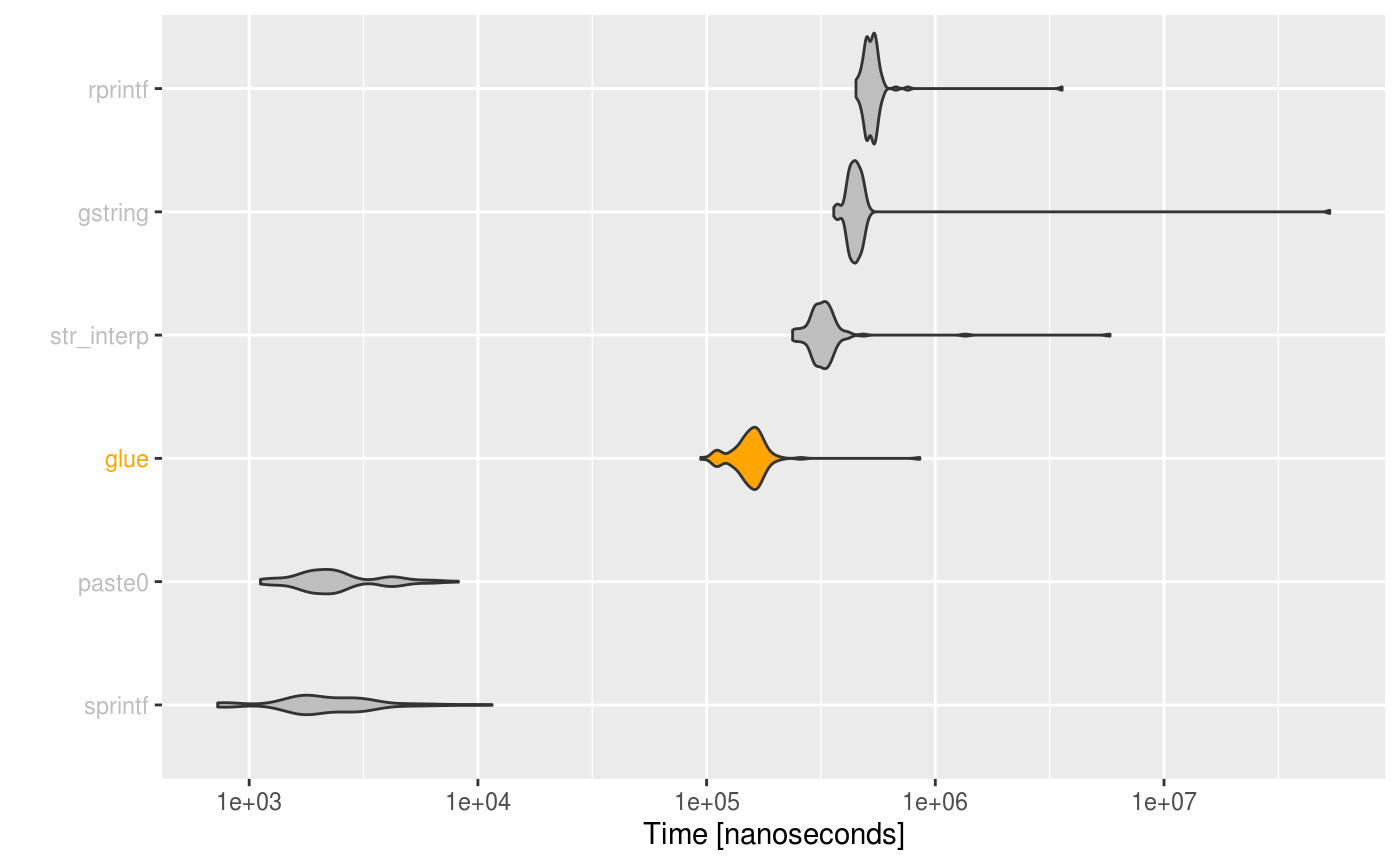
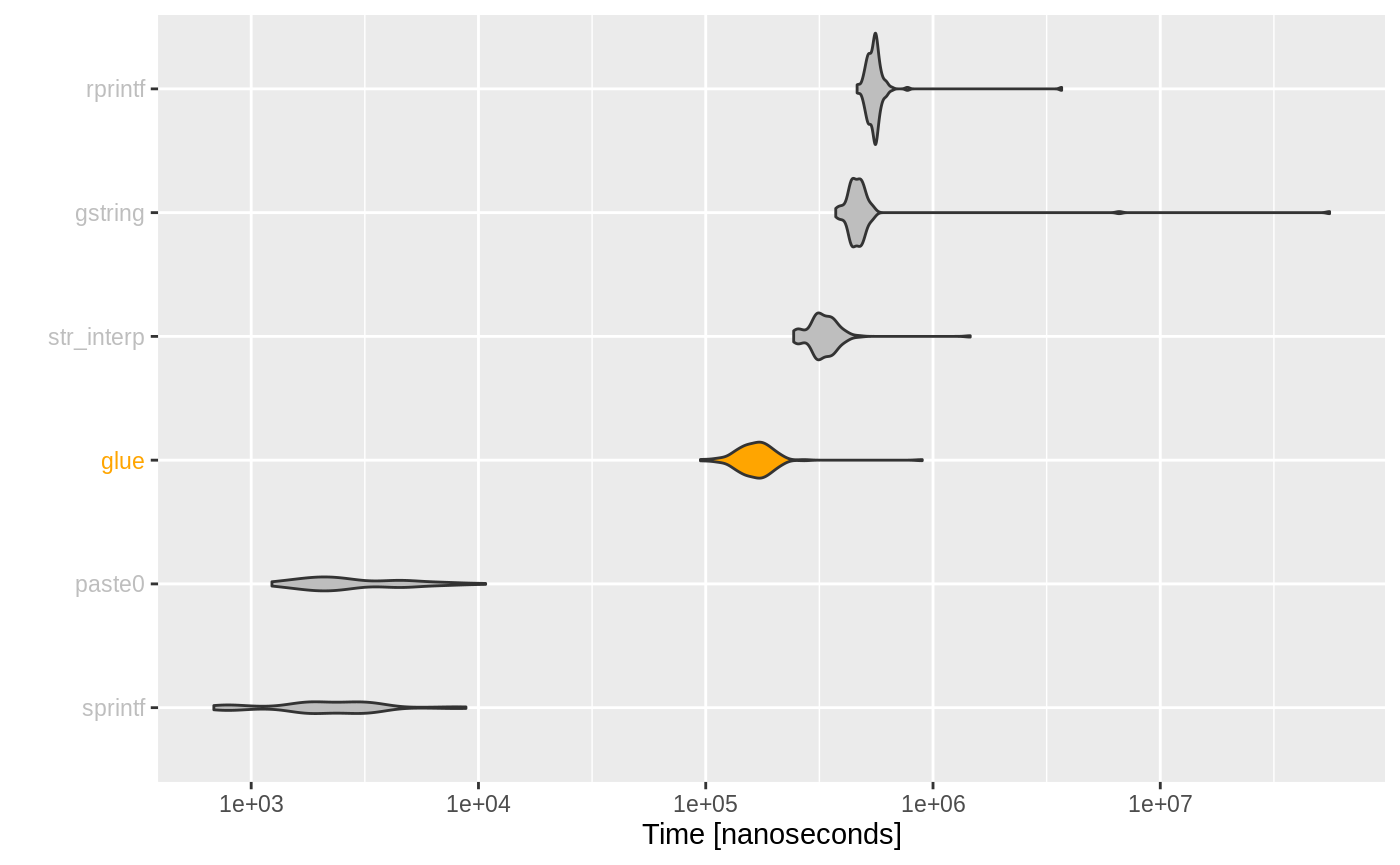
Built site for glue: 1.3.1.9000@3ae350a

diff --git a/dev/articles/speed.html b/dev/articles/speed.html
@@ -146,12 +146,12 @@
 <a class="sourceLine" id="cb1-13" data-line-number="13"><span class="kw"><a href="https://www.rdocumentation.org/packages/base/topics/print">print</a></span>(<span class="dt">unit =</span> <span class="st">"eps"</span>, <span class="dt">order =</span> <span class="st">"median"</span>, <span class="dt">signif =</span> <span class="dv">4</span>, simple)</a>
 <a class="sourceLine" id="cb1-14" data-line-number="14"><span class="co">#&gt; Unit: evaluations per second</span></a>
 <a class="sourceLine" id="cb1-15" data-line-number="15"><span class="co">#&gt;        expr       min     lq   mean median     uq     max neval</span></a>
-<a class="sourceLine" id="cb1-16" data-line-number="16"><span class="co">#&gt;     rprintf    278.90   1827   1901   1894   2002    2222   100</span></a>
-<a class="sourceLine" id="cb1-17" data-line-number="17"><span class="co">#&gt;     gstring     18.84   2140   2242   2240   2358    2779   100</span></a>
-<a class="sourceLine" id="cb1-18" data-line-number="18"><span class="co">#&gt;  str_interp    172.20   2894   3117   3101   3368    4207   100</span></a>
-<a class="sourceLine" id="cb1-19" data-line-number="19"><span class="co">#&gt;        glue   1168.00   5934   6614   6412   7038   10610   100</span></a>
-<a class="sourceLine" id="cb1-20" data-line-number="20"><span class="co">#&gt;      paste0 121600.00 352000 455400 440500 546500  892900   100</span></a>
-<a class="sourceLine" id="cb1-21" data-line-number="21"><span class="co">#&gt;     sprintf  86690.00 344500 530600 504900 615200 1374000   100</span></a>
+<a class="sourceLine" id="cb1-16" data-line-number="16"><span class="co">#&gt;     rprintf    271.60   1766   1811   1810   1915    2158   100</span></a>
+<a class="sourceLine" id="cb1-17" data-line-number="17"><span class="co">#&gt;     gstring     17.99   2052   2137   2168   2293    2679   100</span></a>
+<a class="sourceLine" id="cb1-18" data-line-number="18"><span class="co">#&gt;  str_interp    685.80   2768   3073   3071   3301    4103   100</span></a>
+<a class="sourceLine" id="cb1-19" data-line-number="19"><span class="co">#&gt;        glue   1115.00   5420   6161   5988   6794   10550   100</span></a>
+<a class="sourceLine" id="cb1-20" data-line-number="20"><span class="co">#&gt;      paste0  92990.00 234500 409600 411100 529400  810400   100</span></a>
+<a class="sourceLine" id="cb1-21" data-line-number="21"><span class="co">#&gt;     sprintf 113500.00 328600 568800 470100 627400 1460000   100</span></a>
 <a class="sourceLine" id="cb1-22" data-line-number="22"></a>
 <a class="sourceLine" id="cb1-23" data-line-number="23"><span class="kw">plot_comparison</span>(simple)</a></code></pre></div>
 <p><img src="speed_files/figure-html/unnamed-chunk-1-1.png" width="700"></p>
@@ -179,11 +179,11 @@
 <a class="sourceLine" id="cb2-12" data-line-number="12"><span class="kw"><a href="https://www.rdocumentation.org/packages/base/topics/print">print</a></span>(<span class="dt">unit =</span> <span class="st">"ms"</span>, <span class="dt">order =</span> <span class="st">"median"</span>, <span class="dt">signif =</span> <span class="dv">4</span>, vectorized)</a>
 <a class="sourceLine" id="cb2-13" data-line-number="13"><span class="co">#&gt; Unit: milliseconds</span></a>
 <a class="sourceLine" id="cb2-14" data-line-number="14"><span class="co">#&gt;     expr   min    lq  mean median    uq   max neval</span></a>
-<a class="sourceLine" id="cb2-15" data-line-number="15"><span class="co">#&gt;  sprintf 13.82 14.00 14.34  14.17 14.36 19.71   100</span></a>
-<a class="sourceLine" id="cb2-16" data-line-number="16"><span class="co">#&gt;   paste0 15.70 16.25 16.58  16.54 16.83 17.98   100</span></a>
-<a class="sourceLine" id="cb2-17" data-line-number="17"><span class="co">#&gt;     glue 19.80 20.55 21.12  20.94 21.35 27.95   100</span></a>
-<a class="sourceLine" id="cb2-18" data-line-number="18"><span class="co">#&gt;  gstring 33.89 34.79 35.44  35.33 35.66 41.22   100</span></a>
-<a class="sourceLine" id="cb2-19" data-line-number="19"><span class="co">#&gt;  rprintf 54.73 55.22 56.11  55.68 56.30 62.63   100</span></a>
+<a class="sourceLine" id="cb2-15" data-line-number="15"><span class="co">#&gt;  sprintf 14.53 14.68 15.16  14.98 15.19 20.86   100</span></a>
+<a class="sourceLine" id="cb2-16" data-line-number="16"><span class="co">#&gt;   paste0 16.39 17.17 17.61  17.49 17.88 21.07   100</span></a>
+<a class="sourceLine" id="cb2-17" data-line-number="17"><span class="co">#&gt;     glue 20.91 21.71 22.54  22.32 22.96 28.09   100</span></a>
+<a class="sourceLine" id="cb2-18" data-line-number="18"><span class="co">#&gt;  gstring 34.72 35.62 36.42  36.16 36.69 42.93   100</span></a>
+<a class="sourceLine" id="cb2-19" data-line-number="19"><span class="co">#&gt;  rprintf 55.52 56.22 57.23  56.98 57.55 63.52   100</span></a>
 <a class="sourceLine" id="cb2-20" data-line-number="20"></a>
 <a class="sourceLine" id="cb2-21" data-line-number="21"><span class="kw">plot_comparison</span>(vectorized, <span class="dt">log =</span> <span class="ot">FALSE</span>)</a></code></pre></div>
 <p><img src="speed_files/figure-html/unnamed-chunk-2-1.png" width="700"></p>

diff --git a/dev/reference/glue.html b/dev/reference/glue.html
@@ -237,7 +237,7 @@ template with <code><a href='trim.html'>trim()</a></code> or not.</p></td>
 <span class='no'>intro</span> <span class='kw'>&lt;-</span> <span class='kw'>function</span>(<span class='no'>name</span>, <span class='no'>profession</span>, <span class='no'>country</span>){
   <span class='fu'>glue</span>(<span class='st'>"My name is {name}, a {profession}, from {country}"</span>)
 }
-<span class='fu'>intro</span>(<span class='st'>"Shelmith"</span>,<span class='st'>"Senior Data Analyst"</span>,<span class='st'>"Kenya"</span>)</div><div class='output co'>#&gt; My name is Shelmith, a Senior Data Analyst, from Kenya</div><div class='input'><span class='fu'>intro</span>(<span class='st'>"Cate"</span>,<span class='st'>"Data Scientist"</span>,<span class='st'>"Kenya"</span>)</div><div class='output co'>#&gt; My name is Cate, a Data Scientist, from Kenya</div><div class='input'>
+<span class='fu'>intro</span>(<span class='st'>"Shelmith"</span>, <span class='st'>"Senior Data Analyst"</span>, <span class='st'>"Kenya"</span>)</div><div class='output co'>#&gt; My name is Shelmith, a Senior Data Analyst, from Kenya</div><div class='input'><span class='fu'>intro</span>(<span class='st'>"Cate"</span>, <span class='st'>"Data Scientist"</span>, <span class='st'>"Kenya"</span>)</div><div class='output co'>#&gt; My name is Cate, a Data Scientist, from Kenya</div><div class='input'>
 <span class='co'># `glue_data()` is useful in magrittr pipes</span>
 <span class='fu'><a href='https://www.rdocumentation.org/packages/base/topics/library'>library</a></span>(<span class='no'>magrittr</span>)</div><div class='output co'>#&gt; <span class='message'></span>
 #&gt; <span class='message'>Attaching package: ‘magrittr’</span></div><div class='output co'>#&gt; <span class='message'>The following objects are masked from ‘package:testthat’:</span>
